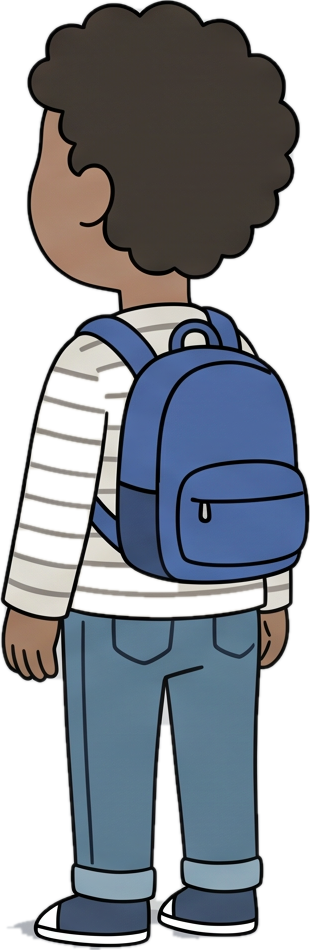
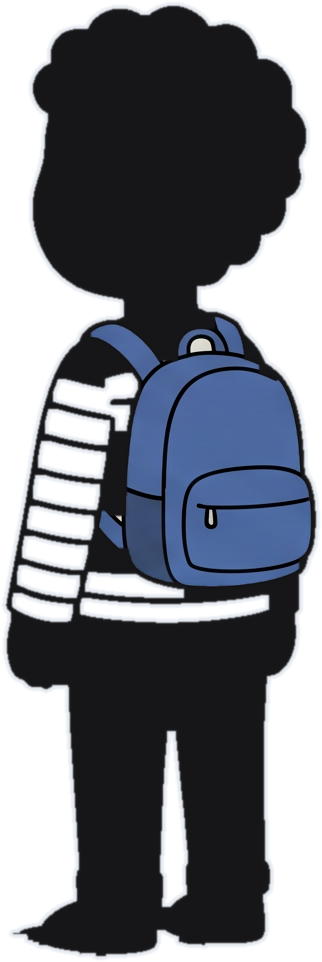
Bloc 3 : enfants et parent restylés en silhouettes noires (contour discret, un seul détail de couleur chacun), jambes recalées sur les nouveaux calques
Claude-Session: https://claude.ai/code/session_01MgEZztULRvgmbzKu3Bn3uF

diff --git a/video_production/lune/film/b03/detourer.py b/video_production/lune/film/b03/detourer.py
@@ -1,5 +1,11 @@
-"""Détoure la planche b03/enfants.png (fond gris uni) en 4 calques RGBA : enf_vert, parent_fille, enf_rayures, enf_gris.
-Les trous intérieurs sont remplis (vêtements gris clair proches du fond), sauf les grands trous couleur du fond (entre les jambes)."""
+"""Détoure la planche b03/enfants.png (fond gris uni) en 4 calques RGBA, au style des personnages du film :
+silhouette NOIRE pleine (comme Léa), contour fin et discret, et UN SEUL détail de couleur par personnage.
+
+  enf_vert      cartable vert (et sa gourde rouge)
+  parent_fille  le parent : sacoche moutarde ; la fillette : cartable jaune (deux personnes, un seul calque : ils se tiennent la main)
+  enf_rayures   cartable bleu
+  enf_gris      cartable rouge brique (recoloré : il était gris)
+"""
 from pathlib import Path
 
 import cv2
@@ -7,25 +13,77 @@ import numpy as np
 from PIL import Image
 
 HERE = Path(__file__).resolve().parent
+NOIR = np.array([22, 22, 25], np.float32)                      # le noir des personnages (Léa)
+CONTOUR, CONTOUR_A, CONTOUR_PX = np.array([200, 210, 225], np.float32), 0.38, 4
+
 im = np.asarray(Image.open(HERE / "enfants.png").convert("RGB")).astype(np.float32)
 bg = np.median(np.concatenate([im[:40].reshape(-1, 3), im[:, :40].reshape(-1, 3)]), 0)
 d = np.abs(im - bg).max(2)
-m = cv2.morphologyEx((d > 34).astype(np.uint8), cv2.MORPH_CLOSE, np.ones((9, 9), np.uint8))
-for name, (x0, x1) in {"enf_vert": (200, 560), "parent_fille": (660, 1700), "enf_rayures": (1780, 2110), "enf_gris": (2170, 2550)}.items():
-    sub = m[:, x0:x1]
-    n, lab, st, _ = cv2.connectedComponentsWithStats(sub)
-    keep = (lab == 1 + np.argmax(st[1:, 4])).astype(np.uint8)
-    ff = keep.copy(); h, w = ff.shape
+m = cv2.morphologyEx((d > 34).astype(np.uint8), cv2.MORPH_CLOSE, np.ones((9, 9), np.uint8))   # l'ombre grise au sol reste dehors
+
+
+def fill_holes(k):
+    ff = k.copy(); h, w = ff.shape
     cv2.floodFill(ff, np.zeros((h + 2, w + 2), np.uint8), (0, 0), 1)
-    holes = (1 - ff).astype(np.uint8)
-    hn, hl, hs, _ = cv2.connectedComponentsWithStats(holes)
-    for k in range(1, hn):
-        reg = hl == k
-        if hs[k, 4] > 1500 and d[:, x0:x1][reg].mean() < 14:              # trou couleur du fond : on le laisse vide
-            holes[reg] = 0
-    keep = keep | holes
-    a = cv2.GaussianBlur(keep.astype(np.float32), (0, 0), 1.0)
-    ys, xs = np.where(keep)
-    rgba = np.dstack([im[:, x0:x1], a[..., None] * 255])[ys.min():ys.max() + 1, xs.min():xs.max() + 1]
-    Image.fromarray(rgba.astype(np.uint8)).save(HERE / f"{name}.png")
-    print(name, rgba.shape)
+    return k | (1 - ff)
+
+
+def largest(k):
+    n, lab, st, _ = cv2.connectedComponentsWithStats(k)
+    return (lab == 1 + np.argmax(st[1:, 4])).astype(np.uint8) if n > 1 else k
+
+
+def accent(rgb, box, test):
+    """Masque d'un objet de couleur dans un rectangle (coordonnées du calque) : couleur, puis lignes internes avalées."""
+    x0, y0, x1, y1 = box
+    k = np.zeros(rgb.shape[:2], np.uint8)
+    r, g, b = (rgb[y0:y1, x0:x1, c] for c in range(3))
+    k[y0:y1, x0:x1] = test(r, g, b, rgb[y0:y1, x0:x1].mean(2)).astype(np.uint8)
+    k = cv2.morphologyEx(k, cv2.MORPH_OPEN, np.ones((5, 5), np.uint8))
+    k = cv2.morphologyEx(k, cv2.MORPH_CLOSE, np.ones((17, 17), np.uint8))
+    return fill_holes(largest(k))
+
+
+ACC = {   # nom : [(rectangle, test de couleur, couleur forcée ou None = couleur d'origine)]
+    "enf_vert": [((0, 290, 260, 600), lambda r, g, b, l: ((g > r + 5) & (g > b + 15)) | ((r > b + 60) & (r > g + 60)), None)],
+    "parent_fille": [((220, 630, 545, 910), lambda r, g, b, l: l < 26, np.array([196, 150, 64], np.float32)),
+                     ((800, 650, 1010, 915), lambda r, g, b, l: (r > 170) & (g > 130) & (b < 140), None)],
+    "enf_rayures": [((85, 300, 310, 590), lambda r, g, b, l: b > r + 35, None)],
+    "enf_gris": [((100, 350, 345, 655), lambda r, g, b, l: (l > 95) & (l < 178), np.array([168, 72, 58], np.float32))],
+}
+
+if __name__ == "__main__":
+    for name, (x0, x1) in {"enf_vert": (200, 560), "parent_fille": (660, 1700), "enf_rayures": (1780, 2110), "enf_gris": (2170, 2550)}.items():
+        keep = largest(m[:, x0:x1].copy())                                                # silhouette pleine…
+        holes = fill_holes(keep) - keep
+        hn, hl, hs, _ = cv2.connectedComponentsWithStats(holes.astype(np.uint8))
+        lowest = np.where(keep.any(1))[0].max()
+        for k in range(1, hn):                                                           # … sauf l'écart entre les jambes
+            reg = hl == k
+            if hs[k, 4] > 600 and d[:, x0:x1][reg].mean() < 14 and hs[k, 1] > lowest - 600:
+                holes[reg] = 0
+        keep = keep | holes
+        ys, xs = np.where(keep)
+        y0, y1, xa, xb = ys.min(), ys.max() + 1, xs.min(), xs.max() + 1
+        P = CONTOUR_PX + 2
+        sil = np.pad(keep[y0:y1, xa:xb], P)
+        rgb = np.pad(im[:, x0:x1][y0:y1, xa:xb], ((P, P), (P, P), (0, 0)))
+        out = np.zeros(rgb.shape, np.float32) + NOIR
+        for box, test, col in ACC[name]:
+            bx = tuple(v + P for v in box)                                              # rectangle : coordonnées du calque sans marge
+            a = accent(rgb, bx, test) & sil
+            a = cv2.GaussianBlur(a.astype(np.float32), (0, 0), 0.8)[..., None]
+            if col is None:
+                src = rgb
+            else:                                                                        # recolorée : garde les ombres et les lignes
+                lum = rgb.mean(2, keepdims=True)
+                src = col * np.clip(0.55 + lum / 255, 0.3, 1.25) if name == "enf_gris" else col * np.where(lum < 26, 1.0, 0.55)
+            out = out * (1 - a) + src * a
+        alpha = cv2.GaussianBlur(sil.astype(np.float32), (0, 0), 0.8)
+        ring = cv2.dilate(sil, cv2.getStructuringElement(cv2.MORPH_ELLIPSE, (2 * CONTOUR_PX + 1,) * 2)).astype(np.float32)
+        ring = cv2.GaussianBlur(ring, (0, 0), 0.8)
+        ra = np.clip(ring - alpha, 0, 1) * CONTOUR_A                                       # contour fin, faible opacité
+        A = alpha + ra
+        rgbo = (out * alpha[..., None] + CONTOUR * ra[..., None]) / np.maximum(A, 1e-6)[..., None]
+        Image.fromarray(np.dstack([rgbo, A * 255]).clip(0, 255).astype(np.uint8)).save(HERE / f"{name}.png")
+        print(name, rgbo.shape, "décalage", (xa - P, y0 - P))

diff --git a/video_production/lune/film/decors/ville_jour.py b/video_production/lune/film/decors/ville_jour.py
@@ -27,11 +27,11 @@ VUES = {                                                       # [x, y, zoom] au
 class Rue:
     # nom, x du centre, y des pieds, échelle (de l'arrière vers l'avant)
     # nom, x du centre À L'ARRIVÉE, y des pieds, échelle, vitesse (px source/s), durée d'un pas (s),
-    # jambes : [(y de la hanche, x de séparation, x min, x max), …] dans le dessin d'origine (une paire par personne)
-    GENS = [("enf_gris", 262, 1302, 0.25, 95, 0.42, [(830, 197, 50, 320)]),
-            ("enf_rayures", 66, 1328, 0.28, 95, 0.40, [(735, 166, 40, 305)]),
-            ("enf_vert", 168, 1338, 0.28, 90, 0.38, [(722, 170, 65, 325)]),
-            ("parent_fille", 372, 1350, 0.28, 85, 0.52, [(870, 222, 75, 420), (1060, 868, 730, 1017)])]
+    # jambes : [(y de la hanche, x de séparation, x min, x max), …] dans le calque détouré, avant miroir (une paire par personne)
+    GENS = [("enf_gris", 262, 1302, 0.25, 95, 0.42, [(836, 203, 56, 326)]),
+            ("enf_rayures", 66, 1328, 0.28, 95, 0.40, [(741, 172, 46, 311)]),
+            ("enf_vert", 168, 1338, 0.28, 90, 0.38, [(728, 176, 71, 331)]),
+            ("parent_fille", 372, 1350, 0.28, 85, 0.52, [(876, 228, 81, 426), (1066, 874, 736, 1023)])]
     MARCHE = 1.9                                               # durée de la marche vers le portail (s), finie à la fin du plan I
     CAR = (500, 1040, 860, 1470)                                # zone de la 2 CV garée devant l'école
     SH = (2478, 884, 2752, 1302)                               # rideau de fer du restaurant (x0, y0, x1, y1)
